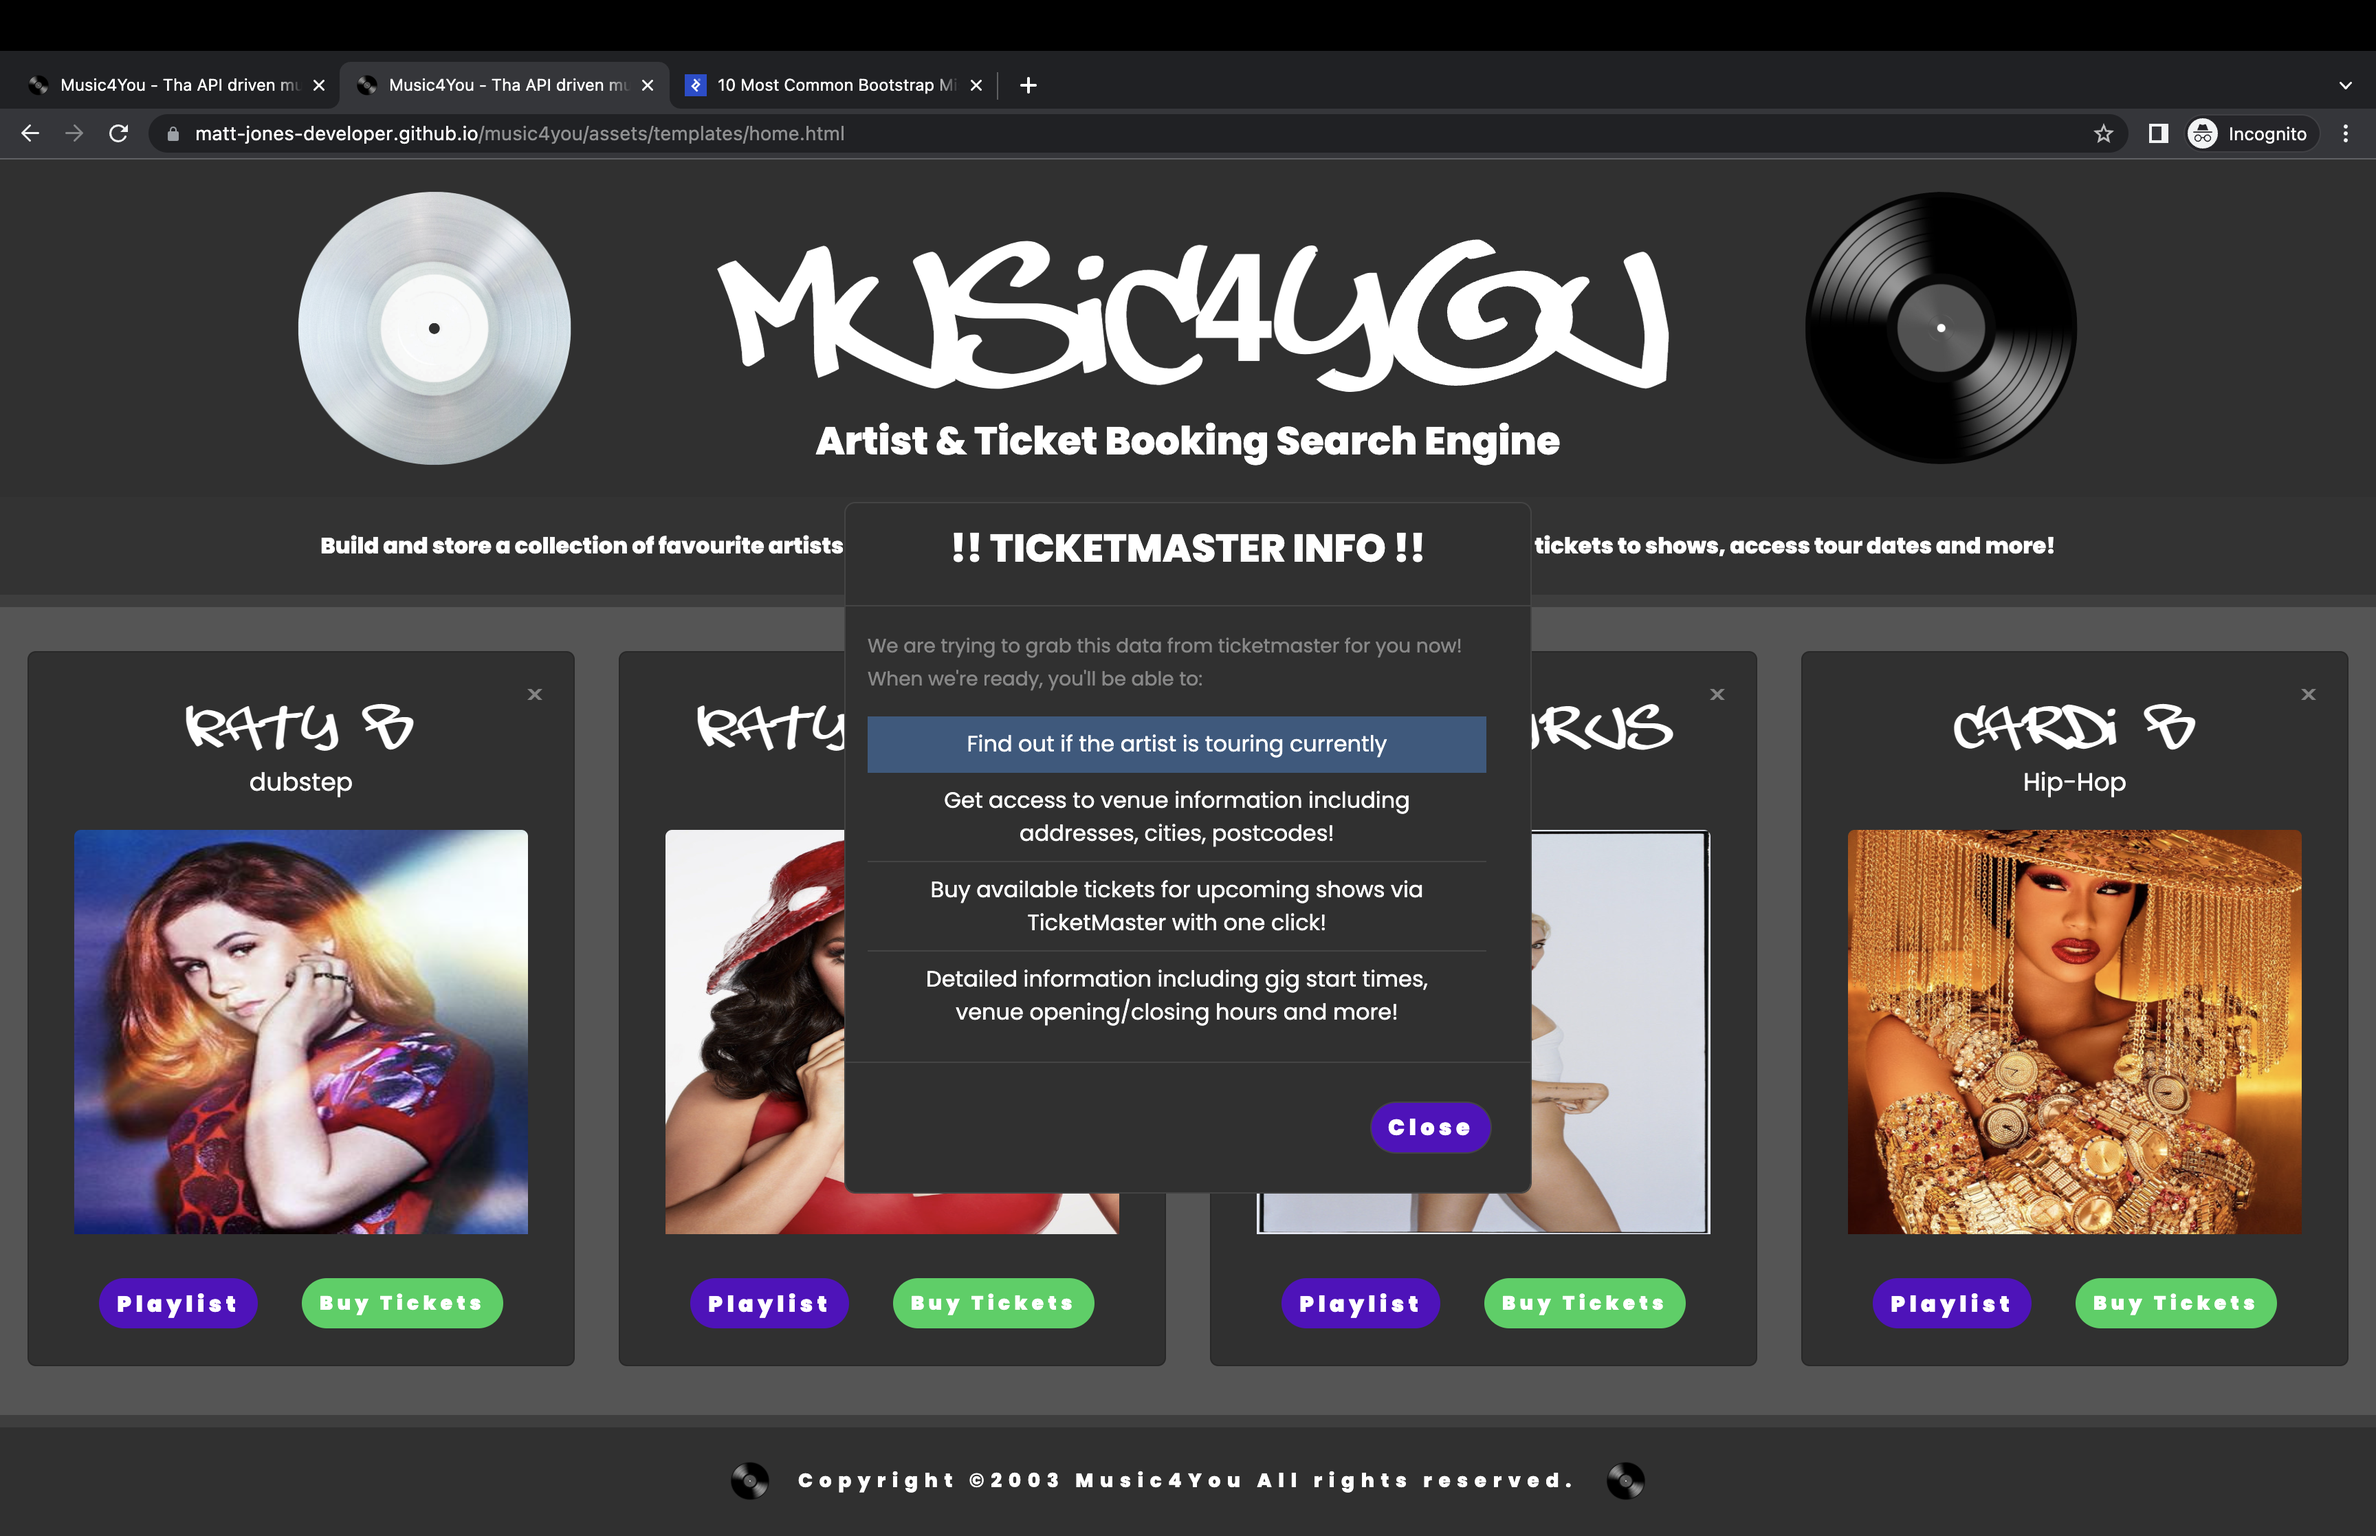
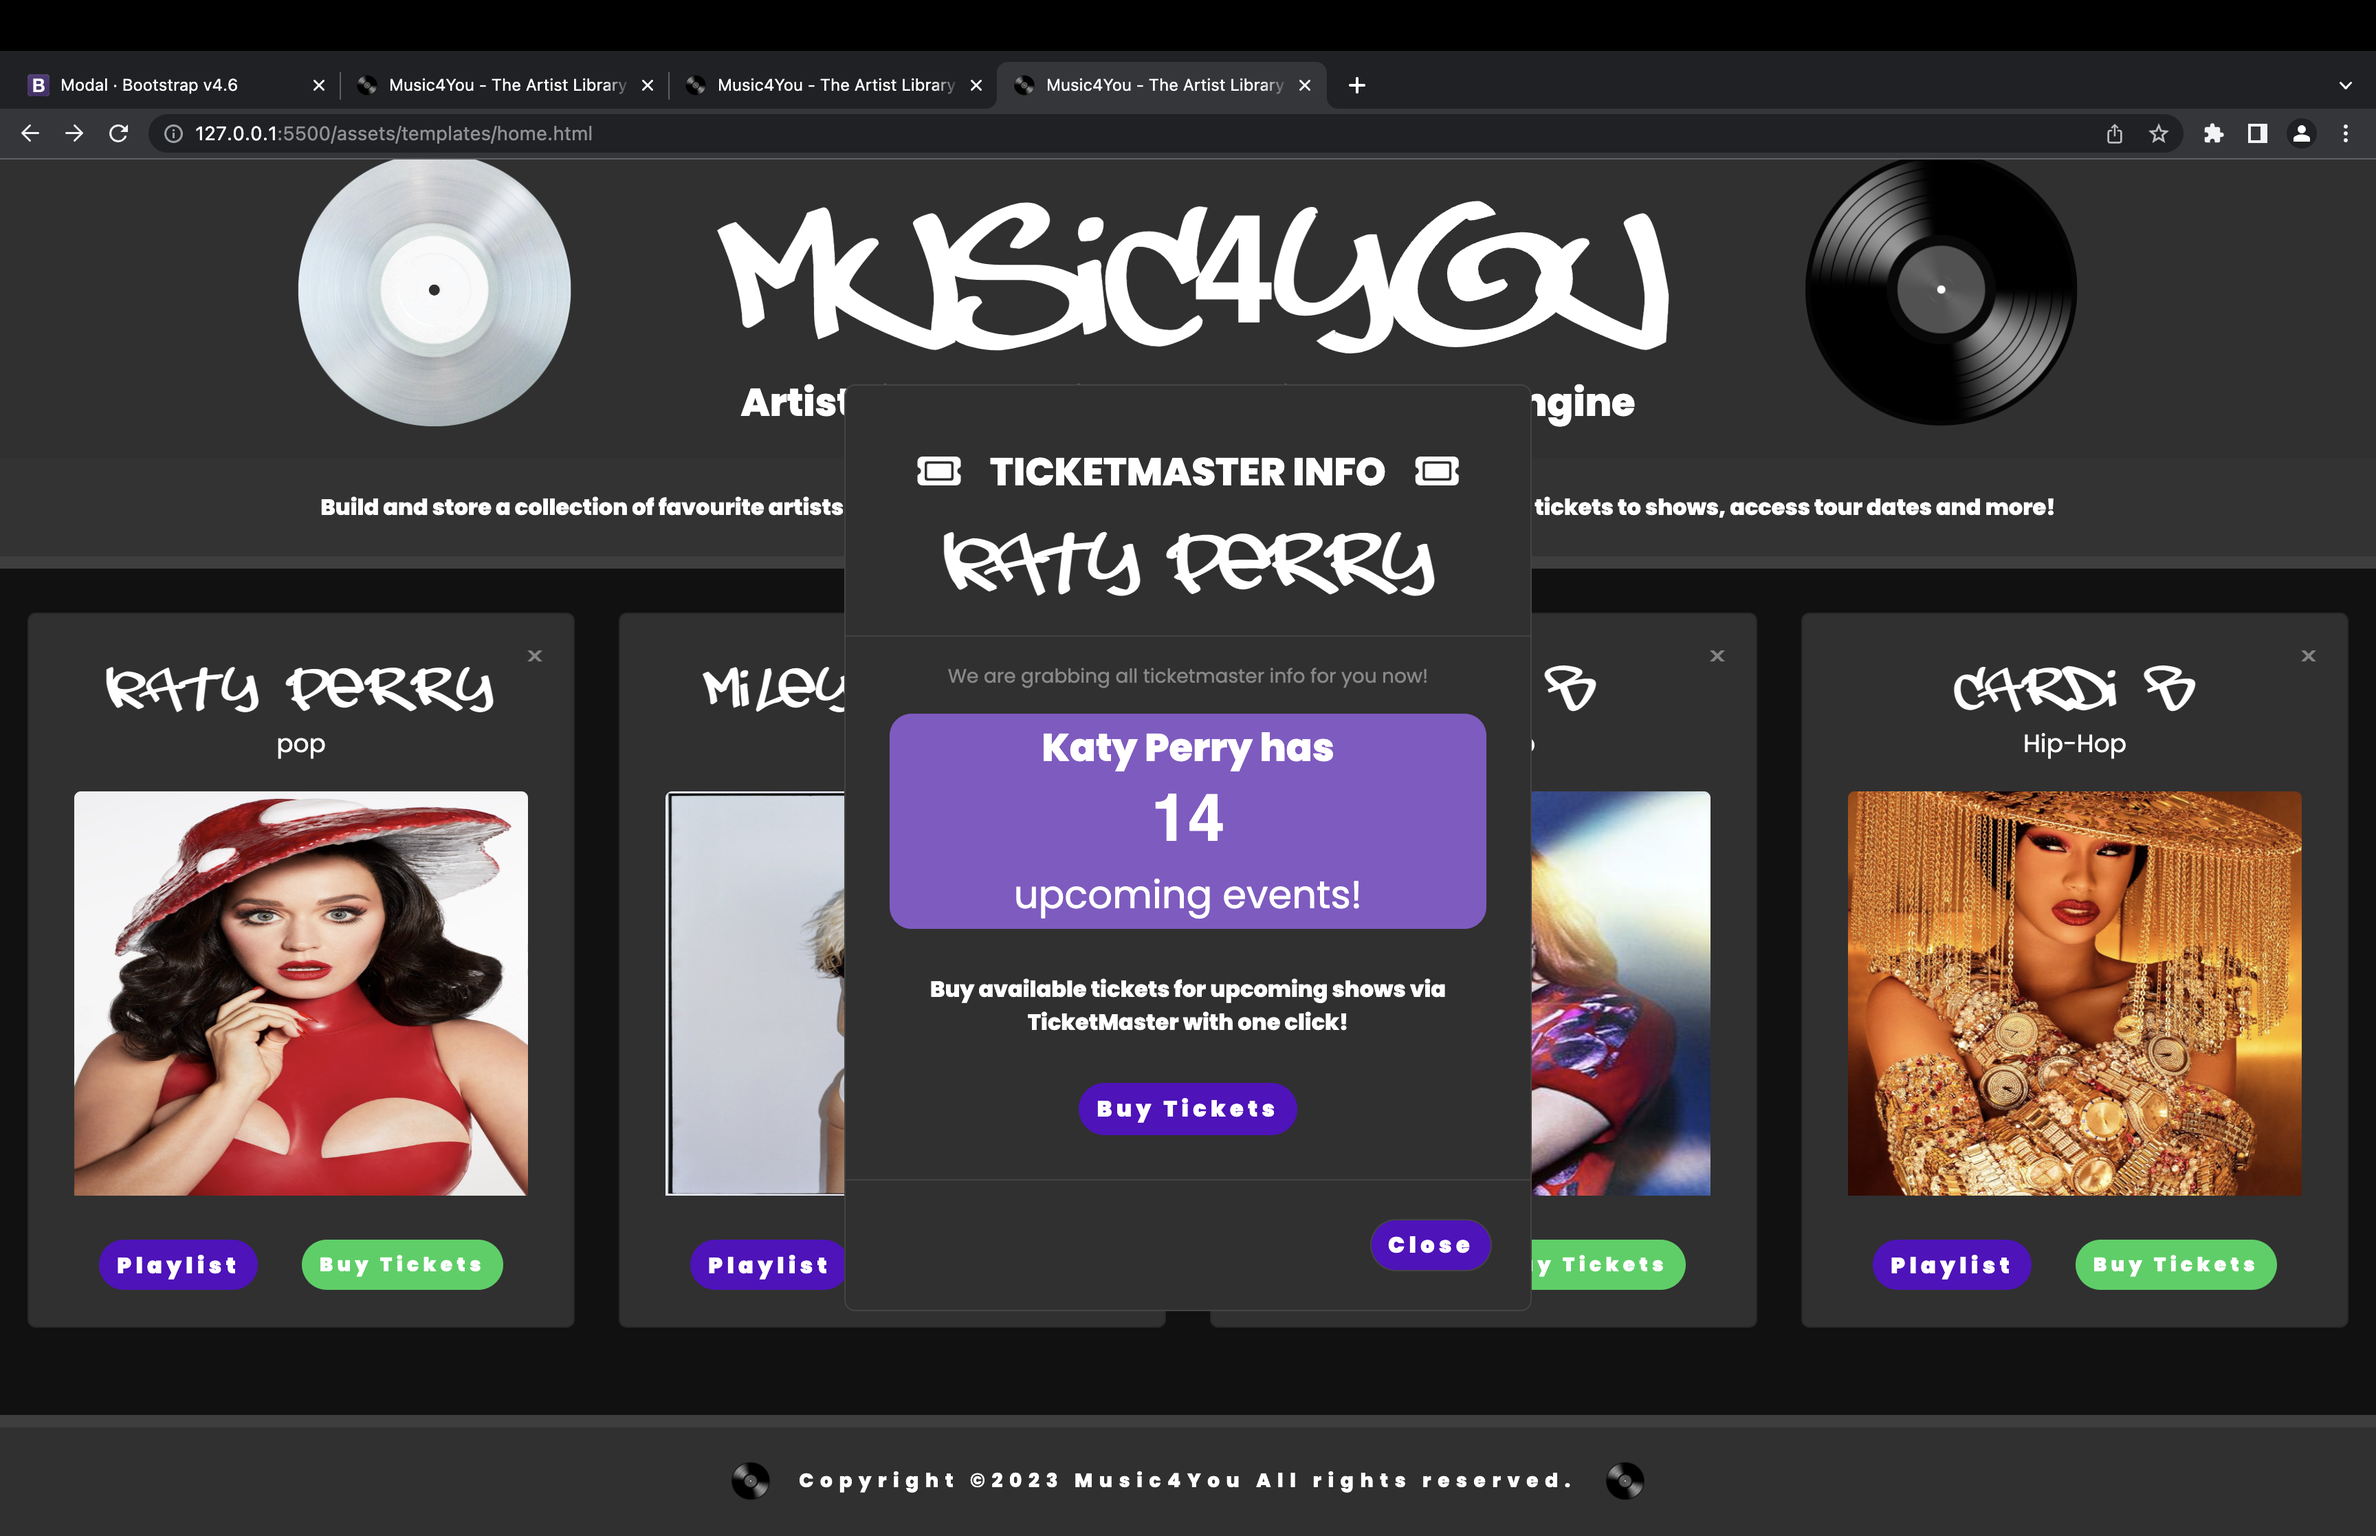
gitignore active

diff --git a/assets/scripts/ticketmaster.js b/assets/scripts/ticketmaster.js
@@ -1,0 +1,93 @@
+
+// let artistName = "KatyPerry"
+// let ticketMasterAPIKey = "&apikey=GbIS7ZHqNdNaR8p53t0s3R87G5IbJWSB"
+// let attractionFullUrl = "https://app.ticketmaster.com/discovery/v2/attractions.json?&keyword=" + artistName + ticketMasterAPIKey
+
+// hacky
+let ticketMasterAPIKey = "&apikey=GbIS7ZHqNdNaR8p53t0s3R87G5IbJWSB";
+let ticketmasterSiteLogin = "https://www.ticketmaster.com/member/login"
+let eventLabel = document.querySelector(".eventLabel")
+
+function fetchTM(artistName) {
+
+  // let ticketMasterAPIKey = "&apikey=GbIS7ZHqNdNaR8p53t0s3R87G5IbJWSB";
+  let attractionFullUrl = "https://app.ticketmaster.com/discovery/v2/attractions.json?&keyword=" + artistName + ticketMasterAPIKey;
+  let eventListings;
+
+  console.log(artistName)
+  // fetch the TM data
+  fetch(attractionFullUrl)
+    .then(res => res.json())
+    .then(data => {
+      console.log(data._embedded.attractions[0])
+      if (data._embedded.attractions[0].upcomingEvents.tmr >= 0) {
+        console.log("Upcoming Events:", data._embedded.attractions[0].upcomingEvents.tmr);
+        // define eventsTotal as a variable 
+        let eventsTotal = data._embedded.attractions[0].upcomingEvents.tmr;
+        console.log('eventsTotal:', eventsTotal)
+        let tmURL = data._embedded.attractions[0].url
+        console.log('BUY tickets button URL:', tmURL)
+        let artistID = data._embedded.attractions[0].id
+        console.log('artistID:', artistID)
+
+        let eventsFullUrl = "https://app.ticketmaster.com/discovery/v2/events.json?&attractionId=" + artistID + ticketMasterAPIKey
+
+        // fetch for each event
+        fetch(eventsFullUrl)
+          .then(res => res.json())
+          .then(data => {
+
+            let eventListings = data._embedded.events;
+
+            for (let i = 0; i < eventListings.length; i++) {
+              let event = eventListings[i];
+              console.log("ArtistName:", eventListings[i].name)
+              // create on-the-fly vars
+              // name 
+              let artist = event.name;
+              console.log('var artist:', artist)
+              console.log("date:", event.dates.start.localDate)
+              // date 
+              let eventDate = event.dates.start.localDate;
+              console.log('var eventDate: ', eventDate)
+              console.log("StartTime:", event.dates.start.localTime)
+              // start time 
+              let eventStart = event.dates.start.localTime;
+              console.log('var eventStart: ', eventStart)
+              // ticket url link (for href button)
+              console.log("get tickets href:", event.url)
+              let buyTicket = event.url;
+              console.log('var buyTicket:', buyTicket)
+              // all the venue info
+              console.log("venue name:", event._embedded.venues[0].name)
+              let venueName = event._embedded.venues[0].name;
+              // location (all data)
+              let location = event._embedded.venues[0];
+              console.log('location(all arrays):', location)
+              // we want the state, country
+              // console.log('address: ', location.name.address.line1)
+              console.log('venue address:', eventListings[i]._embedded.venues[0].address)
+              console.log("venue details (address, city, state, country, zip:",
+                eventListings[i]._embedded.venues[0].address,
+                eventListings[0]._embedded.venues[0].city,
+                eventListings[0]._embedded.venues[0].state,
+                eventListings[0]._embedded.venues[0].country,
+                eventListings[0]._embedded.venues[0].postalCode)
+
+            }
+            // modal ticket - add all the args that the modal needs 
+            ticketModal(artistName, eventsTotal, ticketmasterSiteLogin)
+          })
+
+      }
+      else {
+        console.log("No Upcoming Events")
+        // call noTourModal
+        noTourModal(artistName)
+
+      }
+
+    })
+}
+
+

diff --git a/assets/scripts/data_render.js b/assets/scripts/data_render.js
@@ -450,7 +450,7 @@ function renderCard(
   ticketButton.addEventListener('click', function () {
 
     // retrieve that artists ticketmaster data (if any)
-    console.log("How do I access you??")
+    console.log("Accessing fetchTM function now...")
 
     // fetch TM data
     fetchTM(artistName)
@@ -747,13 +747,7 @@ function ticketModal(artistName, eventsTotal, ticketmasterSiteLogin) {
                 <li class="list-group-item active artist-event-count has-events">
                 <h2>${artistName} has </h2><h1><b>${eventsTotal}</b></h1> <h3>upcoming events!</h3>
                 </li>
-                <li class="list-group-item d-flex justify-content-between">
-                <br>
-                Get access to tickets and venue information including addresses, cities, postcodes below!
-                </li>
               </ul>
-              <div class="card bg-dark eventLabel">
-              </div>
               <div class="buy-button">
                 <p>
                 Buy available tickets for upcoming shows via TicketMaster with one click!

diff --git a/assets/css/style.css b/assets/css/style.css
@@ -416,7 +416,12 @@ hr {
 }
 
 .artist-event-count {
-  padding-bottom: 0
+  padding-bottom: 0;
+}
+
+.buy-button {
+  margin-top: 2rem;
+  padding-top: 0;
 }
 
 /* .has-events {

diff --git a/README.md b/README.md
@@ -157,6 +157,7 @@ Product screenshot:
 [![Product Name Screen Shot][product-screenshot-2]](https://github.com/Matt-Jones-Developer/music4you_the_API_driven_music_search_engine)
 
 [![Product Name Screen Shot][product-screenshot-3]](https://github.com/Matt-Jones-Developer/music4you_the_API_driven_music_search_engine)
+[![Product Name Screen Shot][product-screenshot-4]](https://github.com/Matt-Jones-Developer/music4you_the_API_driven_music_search_engine)
 
 ## Criteria
 
@@ -189,7 +190,7 @@ Have a quality README (with unique name, description, technologies used, screens
 
 <!-- languages logos -->
 
-![js-logo]::: [![JavaScript]][javascript-url] ![html5-logo]::: [![HTML5]][html5-url] ![css-logo]::: [![CSS]][css-url] ![heart-logo]::: [![coding]][coders-url]
+![js-logo]::: [![JavaScript]][javascript-url] ![html5-logo]::: [![HTML5]][html5-url] ![css-logo]::: [![CSS]][css-url] ![heart-logo]::: ![coding]
 
 
 <p align="right">(<a href="#readme-top">back to top</a>)</p>
@@ -249,14 +250,15 @@ fully responsive design:
 Console log:
 
 ![console-output-screenshot]
+![console-output-proof-of-API2]
 
 <p align="right">(<a href="#readme-top">back to top</a>)</p>
 
 Early Ideas/Other unused pages:
 
-[![Product Name Screen Shot][product-screenshot-4]](https://github.com/Matt-Jones-Developer/music4you_the_API_driven_music_search_engine)
-
 [![Product Name Screen Shot][product-screenshot-5]](https://github.com/Matt-Jones-Developer/music4you_the_API_driven_music_search_engine)
+
+[![Product Name Screen Shot][product-screenshot-6]](https://github.com/Matt-Jones-Developer/music4you_the_API_driven_music_search_engine)
 
 
 ----------------------------------
@@ -296,7 +298,6 @@ First group project featured these fine coders and designers:
   <p align="left"><a href="https://github.com/Matt-Jones-Developer">Matt Jones</a></p>
   <p align="left"><a href="https://github.com/MRMODonnell">Micheal O'Donnell</a></p>
   <p align="left"><a href="https://github.com/DeveloperK7E">Kelvin Enaro </a></p>
-  <p align="left"><a href="https://github.com/AliSuleym">Ali Suleym</a></p>
 
 </div>
 
@@ -330,7 +331,6 @@ Deployed Project Link: [https://matt-jones-developer.github.io/music4you_the_API
 <p align="right">(<a href="#readme-top">back to top</a>)</p>
 
 
-
 <!-- ACKNOWLEDGMENTS -->
 ## Acknowledgments
 
@@ -340,9 +340,9 @@ Deployed Project Link: [https://matt-jones-developer.github.io/music4you_the_API
 <!-- MARKDOWN LINKS & IMAGES -->
 <!-- https://www.markdownguide.org/basic-syntax/#reference-style-links -->
 [contributors-shield]: https://img.shields.io/github/contributors/matt-jones-developer/music4you_the_API_driven_music_search_engine.svg?style=for-the-badge
-[contributors-url]: https://github.com/matt-jones-developer/password_generator/graphs/contributors
+[contributors-url]: https://github.com/matt-jones-developer/music4you_the_API_driven_music_search_engine/graphs/contributors
 [forks-shield]: https://img.shields.io/github/forks/matt-jones-developer/music4you_the_API_driven_music_search_engine.svg?style=for-the-badge
-[forks-url]: https://github.com/Matt-Jones-Developer/password_generator/network/members
+[forks-url]: https://github.com/Matt-Jones-Developer/music4you_the_API_driven_music_search_engine/network/members
 [stars-shield]: https://img.shields.io/github/stars/matt-jones-developer/music4you_the_API_driven_music_search_engine.svg?style=for-the-badge
 [stars-url]: https://matt-jones-developer.github.io/music4you_the_API_driven_music_search_engine/stargazer
 [issues-shield]: https://img.shields.io/github/issues/matt-jones-developer/music4you_the_API_driven_music_search_engine.svg?style=for-the-badge
@@ -356,7 +356,9 @@ Deployed Project Link: [https://matt-jones-developer.github.io/music4you_the_API
 [product-screenshot-3]: assets/images/screenshots/app_screenshot_3.png
 [product-screenshot-4]: assets/images/screenshots/app_screenshot_4.png
 [product-screenshot-5]: assets/images/screenshots/app_screenshot_5.png
+[product-screenshot-6]: assets/images/screenshots/app_screenshot_6.png
 [console-output-screenshot]: assets/images/screenshots/console_output.png
+[console-output-proof-of-API2]: assets/images/screenshots/console_output_tm_api.png
 [wireframe-screenshot]: ./assets/images/screenshots/app_wireframing.png
 [wireframe-screenshot-2]: ./assets/images/screenshots/app_wireframing_2.png
 [tablet-screenshot1]: ./assets/images/screenshots/ipad-screenshot.png
@@ -365,8 +367,8 @@ Deployed Project Link: [https://matt-jones-developer.github.io/music4you_the_API
 [javascript-url]: https://www.javascript.com
 [html5-url]: https://html5.org/
 [css-url]: https://www.w3.org/Style/CSS/Overview.en.html
+[coding-url]: https://github.com/Matt-Jones-Developer
 [js-logo]: assets/images/logos/js.svg
 [html5-logo]: assets/images/logos/html5.svg
 [css-logo]: assets/images/logos/css3.svg
 [heart-logo]: assets/images/logos/coding_love_logo.png
-
